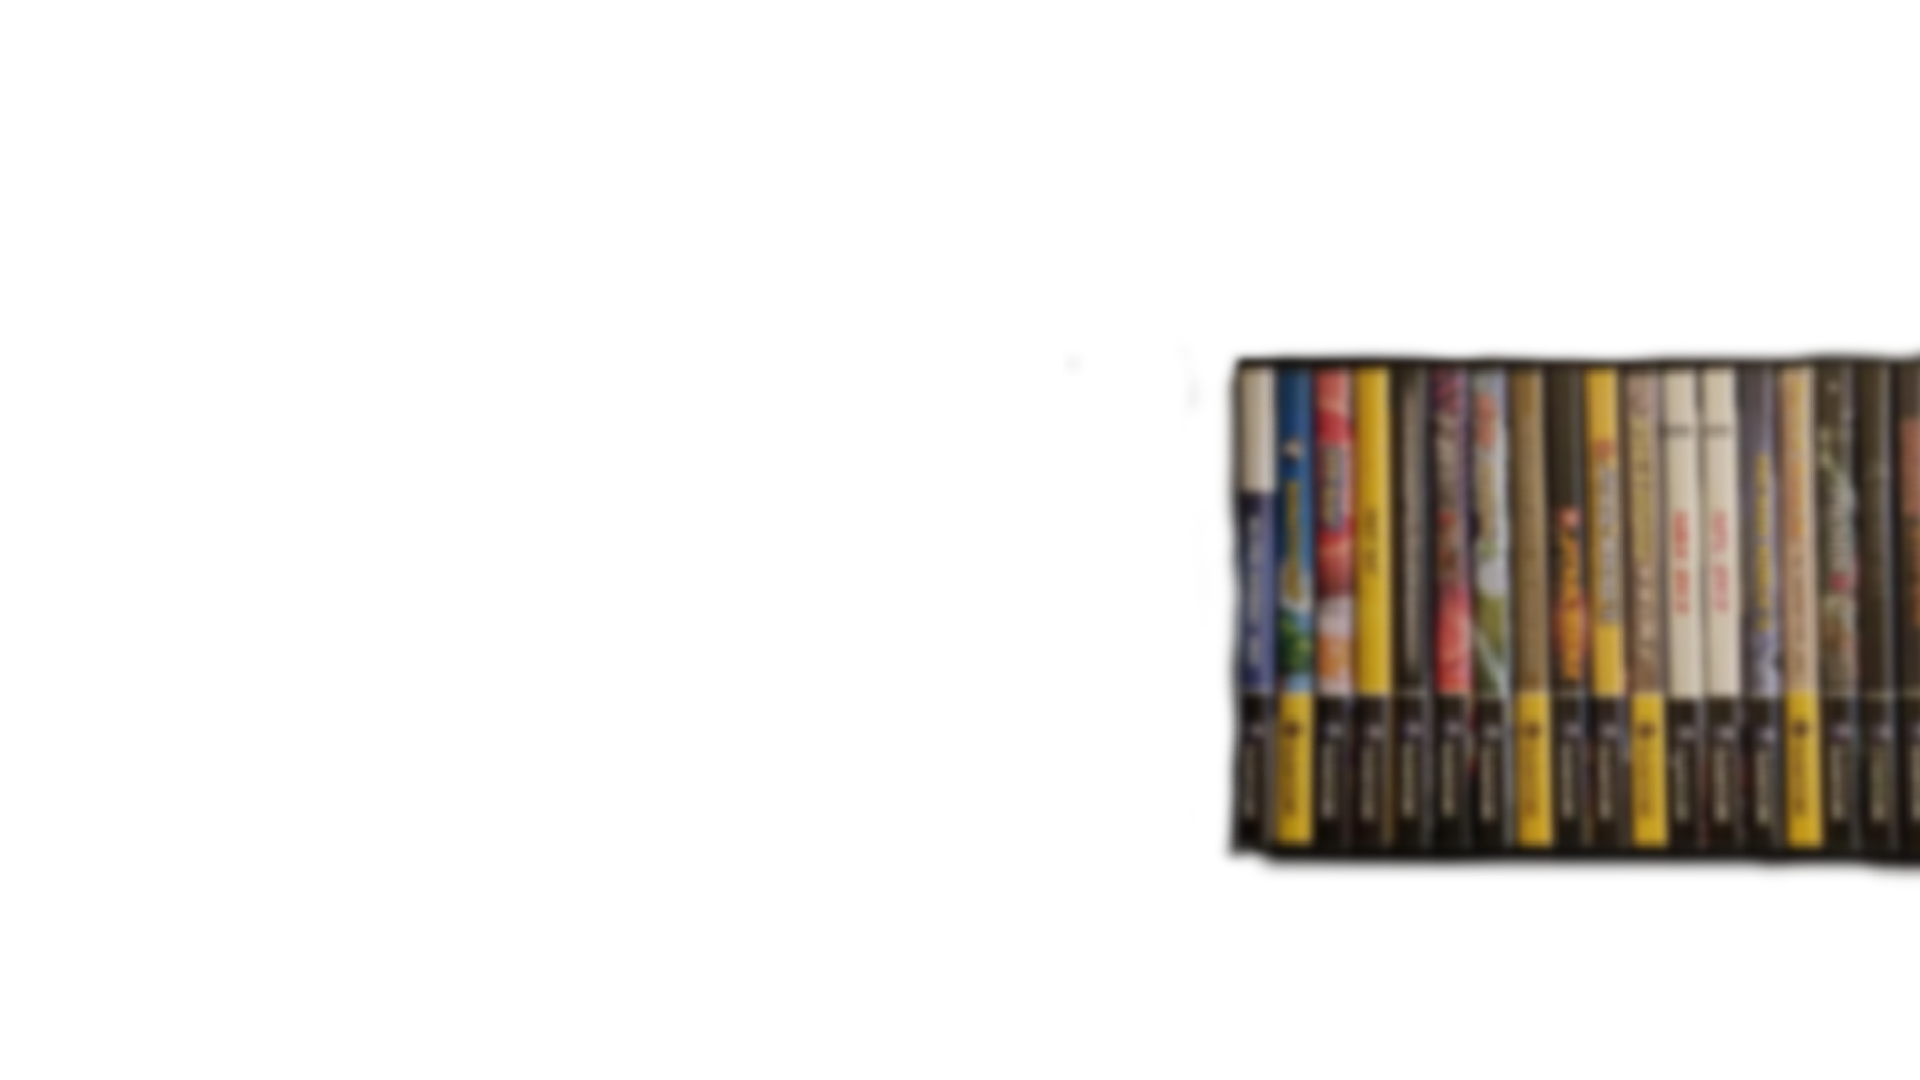
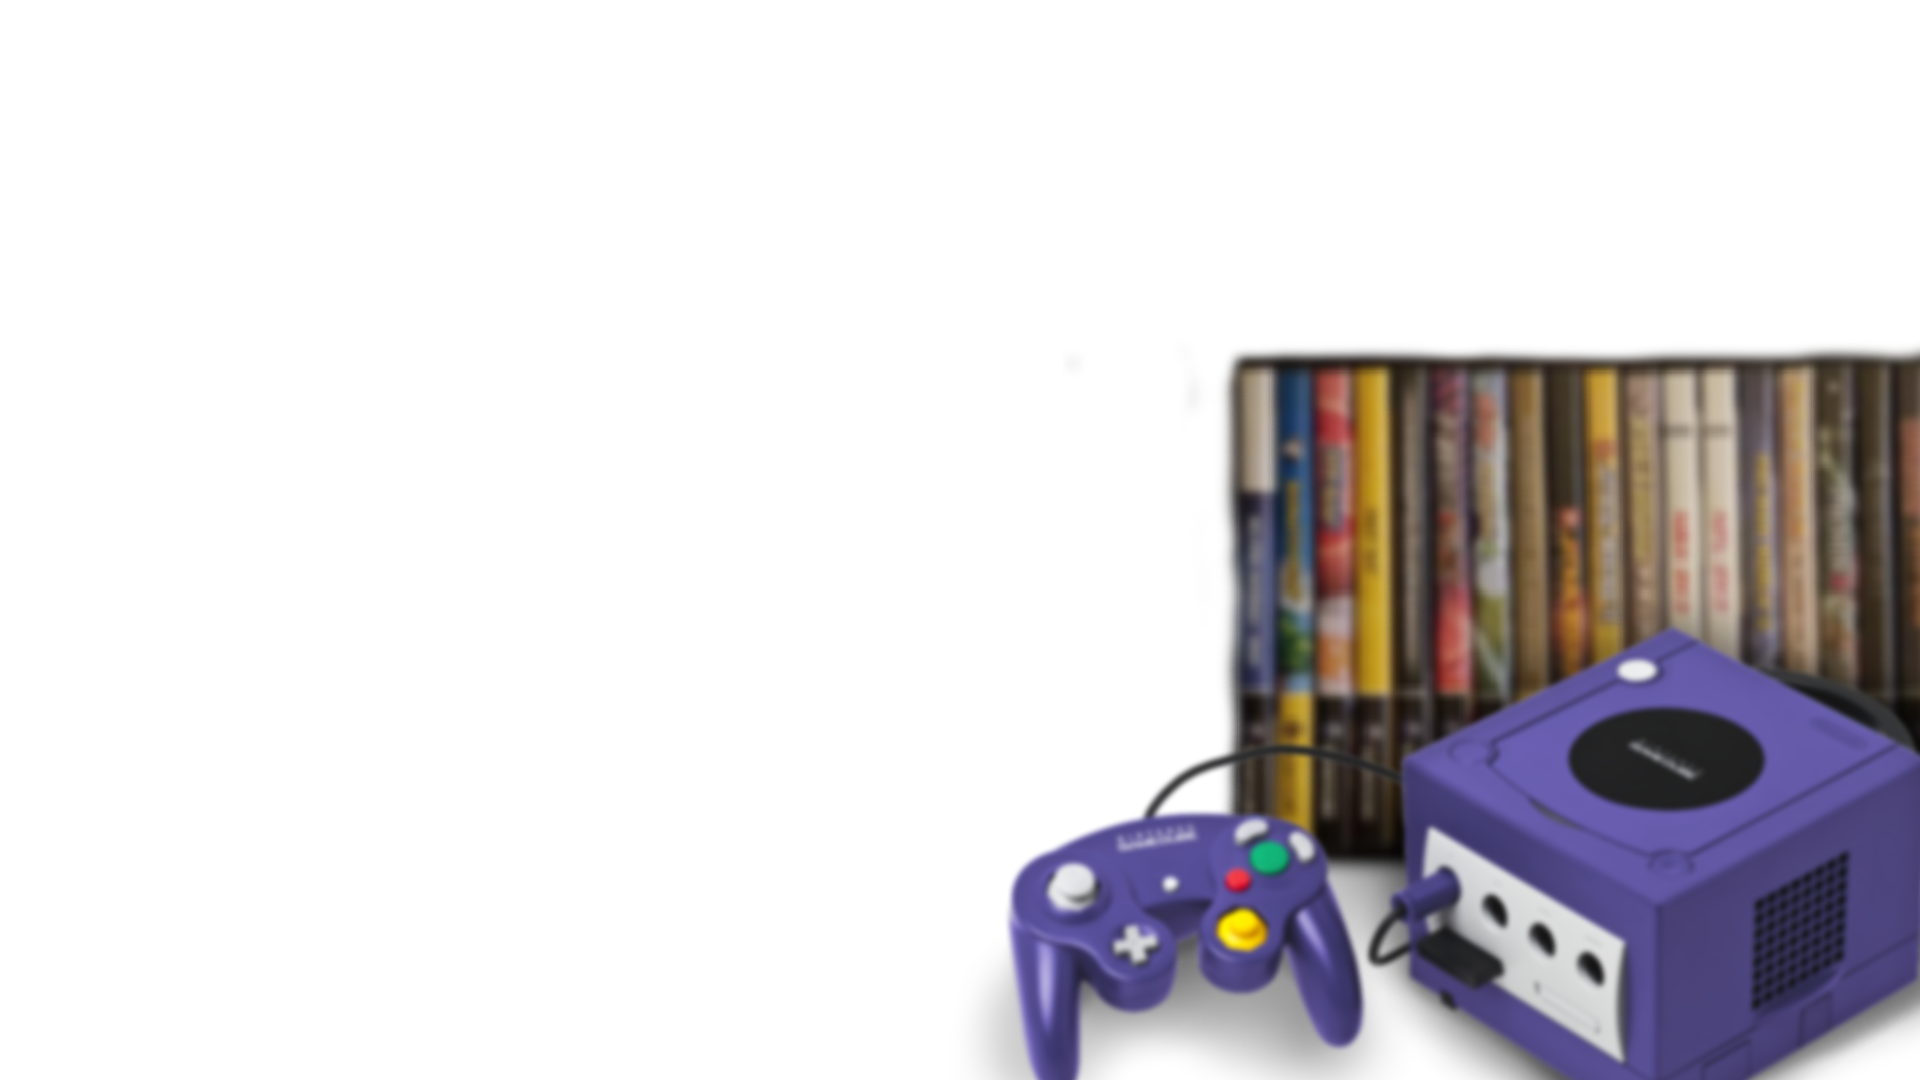
v1.1
- Added consoles to disc systems
- softened console and box blurs
- ps3 overlay
- tidied up some images

Changed region(s): [[0.5, 0.55, 1.0, 1.0], [0.6562, 0.6722, 0.6875, 0.7028]]

diff --git a/Microsoft Xbox.xaml b/Microsoft Xbox.xaml
@@ -14,6 +14,7 @@
              Background="#000">
     <UserControl.Resources>
         <Storyboard x:Key="Load">
+
             <!-- DISC ROTATE -->
             <DoubleAnimation Storyboard.TargetName="DiscImage"
                 Storyboard.TargetProperty="(UIElement.RenderTransform).(TransformGroup.Children)[1].(RotateTransform.Angle)" From="20" To="20"
@@ -25,6 +26,7 @@
                     <CubicEase EasingMode="EaseInOut" />
                 </DoubleAnimation.EasingFunction>
             </DoubleAnimation>
+
             <!-- DISC X-AXIS MOVEMENT -->
             <DoubleAnimationUsingKeyFrames Storyboard.TargetProperty="(UIElement.RenderTransform).(TransformGroup.Children)[2].(TranslateTransform.X)"
                 Storyboard.TargetName="DiscImage">
@@ -39,6 +41,7 @@
                     </EasingDoubleKeyFrame.EasingFunction>
                 </EasingDoubleKeyFrame>
             </DoubleAnimationUsingKeyFrames>
+
 	    <!-- BOX X-AXIS MOVEMENT -->
             <DoubleAnimationUsingKeyFrames Storyboard.TargetProperty="(UIElement.RenderTransform).(TransformGroup.Children)[2].(TranslateTransform.X)"
                 Storyboard.TargetName="BoxImage">
@@ -50,6 +53,21 @@
                 <EasingDoubleKeyFrame KeyTime="0:0:1.6" Value="-250">
                     <EasingDoubleKeyFrame.EasingFunction>
                         <QuadraticEase />
+                    </EasingDoubleKeyFrame.EasingFunction>
+                </EasingDoubleKeyFrame>
+            </DoubleAnimationUsingKeyFrames>
+
+	    <!-- Screenshot appear -->
+            <DoubleAnimationUsingKeyFrames Storyboard.TargetProperty="(UIElement.RenderTransform).(TransformGroup.Children)[2].(TranslateTransform.Y)"
+                Storyboard.TargetName="ScreenshotImage">
+                <EasingDoubleKeyFrame KeyTime="0:0:4.86" Value="0">
+                    <EasingDoubleKeyFrame.EasingFunction>
+                        <ElasticEase />
+                    </EasingDoubleKeyFrame.EasingFunction>
+                </EasingDoubleKeyFrame>
+                <EasingDoubleKeyFrame KeyTime="0:0:5.0" Value="-1000">
+                    <EasingDoubleKeyFrame.EasingFunction>
+                        <ElasticEase />
                     </EasingDoubleKeyFrame.EasingFunction>
                 </EasingDoubleKeyFrame>
             </DoubleAnimationUsingKeyFrames>
@@ -70,9 +88,18 @@
               <ColumnDefinition Width="20*" />
               <ColumnDefinition Width="30*" />
             </Grid.ColumnDefinitions>
-            <!-- Screenshot -->
-            <Image Grid.Row="1" Grid.Column="1" Source="{Binding SelectedGame.BackgroundImagePath}" Stretch="Fill" VerticalAlignment="Center" HorizontalAlignment="Center"
-    RenderOptions.BitmapScalingMode="HighQuality">
+
+	    <!-- Screenshot -->
+            <Image x:Name="ScreenshotImage" Grid.Row="1" Grid.Column="1" Source="{Binding SelectedGame.ScreenshotImagePath}" VerticalAlignment="Center"
+                   HorizontalAlignment="Center" RenderOptions.BitmapScalingMode="HighQuality" RenderTransformOrigin="0.5,0.5">
+              <Image.RenderTransform>
+                <TransformGroup>
+                  <ScaleTransform ScaleX="1" ScaleY="1"/>
+                  <RotateTransform Angle="0" />
+                  <TranslateTransform X="0"/>
+                  <TranslateTransform Y="1000"/>
+                </TransformGroup>
+              </Image.RenderTransform>
               <Image.Effect>
                 <BlurEffect Radius="30" />
               </Image.Effect>
@@ -123,7 +150,7 @@
                     </TransformGroup>
                 </Image.RenderTransform>
               <Image.Effect>
-                <DropShadowEffect Direction="270" ShadowDepth="15" BlurRadius="20" />
+                <DropShadowEffect Direction="-90" ShadowDepth="20" BlurRadius="30" Opacity=".3" />
               </Image.Effect>
             </Image>
 

diff --git a/Sony Playstation 2.xaml b/Sony Playstation 2.xaml
@@ -14,6 +14,7 @@
              Background="#000">
     <UserControl.Resources>
         <Storyboard x:Key="Load">
+
             <!-- DISC ROTATE -->
             <DoubleAnimation Storyboard.TargetName="DiscImage"
                 Storyboard.TargetProperty="(UIElement.RenderTransform).(TransformGroup.Children)[1].(RotateTransform.Angle)" From="20" To="20"
@@ -25,6 +26,7 @@
                     <CubicEase EasingMode="EaseInOut" />
                 </DoubleAnimation.EasingFunction>
             </DoubleAnimation>
+
             <!-- DISC X-AXIS MOVEMENT -->
             <DoubleAnimationUsingKeyFrames Storyboard.TargetProperty="(UIElement.RenderTransform).(TransformGroup.Children)[2].(TranslateTransform.X)"
                 Storyboard.TargetName="DiscImage">
@@ -39,6 +41,7 @@
                     </EasingDoubleKeyFrame.EasingFunction>
                 </EasingDoubleKeyFrame>
             </DoubleAnimationUsingKeyFrames>
+
 	    <!-- BOX X-AXIS MOVEMENT -->
             <DoubleAnimationUsingKeyFrames Storyboard.TargetProperty="(UIElement.RenderTransform).(TransformGroup.Children)[2].(TranslateTransform.X)"
                 Storyboard.TargetName="BoxImage">
@@ -50,6 +53,21 @@
                 <EasingDoubleKeyFrame KeyTime="0:0:1.6" Value="-250">
                     <EasingDoubleKeyFrame.EasingFunction>
                         <QuadraticEase />
+                    </EasingDoubleKeyFrame.EasingFunction>
+                </EasingDoubleKeyFrame>
+            </DoubleAnimationUsingKeyFrames>
+
+	    <!-- Screenshot appear -->
+            <DoubleAnimationUsingKeyFrames Storyboard.TargetProperty="(UIElement.RenderTransform).(TransformGroup.Children)[2].(TranslateTransform.Y)"
+                Storyboard.TargetName="ScreenshotImage">
+                <EasingDoubleKeyFrame KeyTime="0:0:4.86" Value="0">
+                    <EasingDoubleKeyFrame.EasingFunction>
+                        <ElasticEase />
+                    </EasingDoubleKeyFrame.EasingFunction>
+                </EasingDoubleKeyFrame>
+                <EasingDoubleKeyFrame KeyTime="0:0:5.0" Value="-1000">
+                    <EasingDoubleKeyFrame.EasingFunction>
+                        <ElasticEase />
                     </EasingDoubleKeyFrame.EasingFunction>
                 </EasingDoubleKeyFrame>
             </DoubleAnimationUsingKeyFrames>
@@ -70,9 +88,18 @@
               <ColumnDefinition Width="20*" />
               <ColumnDefinition Width="30*" />
             </Grid.ColumnDefinitions>
-            <!-- Screenshot -->
-            <Image Grid.Row="1" Grid.Column="1" Source="{Binding SelectedGame.ScreenshotImagePath}" Stretch="Fill" VerticalAlignment="Center" HorizontalAlignment="Center"
-    RenderOptions.BitmapScalingMode="HighQuality">
+
+	    <!-- Screenshot -->
+            <Image x:Name="ScreenshotImage" Grid.Row="1" Grid.Column="1" Source="{Binding SelectedGame.ScreenshotImagePath}" VerticalAlignment="Center"
+                   HorizontalAlignment="Center" RenderOptions.BitmapScalingMode="HighQuality" RenderTransformOrigin="0.5,0.5">
+              <Image.RenderTransform>
+                <TransformGroup>
+                  <ScaleTransform ScaleX="1" ScaleY="1"/>
+                  <RotateTransform Angle="0" />
+                  <TranslateTransform X="0"/>
+                  <TranslateTransform Y="1000"/>
+                </TransformGroup>
+              </Image.RenderTransform>
               <Image.Effect>
                 <BlurEffect Radius="30" />
               </Image.Effect>
@@ -123,7 +150,7 @@
                     </TransformGroup>
                 </Image.RenderTransform>
               <Image.Effect>
-                <DropShadowEffect Direction="270" ShadowDepth="15" BlurRadius="20" />
+                <DropShadowEffect Direction="-90" ShadowDepth="20" BlurRadius="30" Opacity=".3" />
               </Image.Effect>
             </Image>
 

diff --git a/Sony Playstation 3.xaml b/Sony Playstation 3.xaml
@@ -14,6 +14,7 @@
              Background="#000">
     <UserControl.Resources>
         <Storyboard x:Key="Load">
+
             <!-- DISC ROTATE -->
             <DoubleAnimation Storyboard.TargetName="DiscImage"
                 Storyboard.TargetProperty="(UIElement.RenderTransform).(TransformGroup.Children)[1].(RotateTransform.Angle)" From="20" To="20"
@@ -25,6 +26,7 @@
                     <CubicEase EasingMode="EaseInOut" />
                 </DoubleAnimation.EasingFunction>
             </DoubleAnimation>
+
             <!-- DISC X-AXIS MOVEMENT -->
             <DoubleAnimationUsingKeyFrames Storyboard.TargetProperty="(UIElement.RenderTransform).(TransformGroup.Children)[2].(TranslateTransform.X)"
                 Storyboard.TargetName="DiscImage">
@@ -39,6 +41,7 @@
                     </EasingDoubleKeyFrame.EasingFunction>
                 </EasingDoubleKeyFrame>
             </DoubleAnimationUsingKeyFrames>
+
 	    <!-- BOX X-AXIS MOVEMENT -->
             <DoubleAnimationUsingKeyFrames Storyboard.TargetProperty="(UIElement.RenderTransform).(TransformGroup.Children)[2].(TranslateTransform.X)"
                 Storyboard.TargetName="BoxImage">
@@ -50,6 +53,21 @@
                 <EasingDoubleKeyFrame KeyTime="0:0:1.6" Value="-250">
                     <EasingDoubleKeyFrame.EasingFunction>
                         <QuadraticEase />
+                    </EasingDoubleKeyFrame.EasingFunction>
+                </EasingDoubleKeyFrame>
+            </DoubleAnimationUsingKeyFrames>
+
+	    <!-- Screenshot appear -->
+            <DoubleAnimationUsingKeyFrames Storyboard.TargetProperty="(UIElement.RenderTransform).(TransformGroup.Children)[2].(TranslateTransform.Y)"
+                Storyboard.TargetName="ScreenshotImage">
+                <EasingDoubleKeyFrame KeyTime="0:0:4.86" Value="0">
+                    <EasingDoubleKeyFrame.EasingFunction>
+                        <ElasticEase />
+                    </EasingDoubleKeyFrame.EasingFunction>
+                </EasingDoubleKeyFrame>
+                <EasingDoubleKeyFrame KeyTime="0:0:5.0" Value="-1000">
+                    <EasingDoubleKeyFrame.EasingFunction>
+                        <ElasticEase />
                     </EasingDoubleKeyFrame.EasingFunction>
                 </EasingDoubleKeyFrame>
             </DoubleAnimationUsingKeyFrames>
@@ -70,9 +88,18 @@
               <ColumnDefinition Width="20*" />
               <ColumnDefinition Width="30*" />
             </Grid.ColumnDefinitions>
-            <!-- Screenshot -->
-            <Image Grid.Row="1" Grid.Column="1" Source="{Binding SelectedGame.ScreenshotImagePath}" Stretch="Fill" VerticalAlignment="Center" HorizontalAlignment="Center"
-    RenderOptions.BitmapScalingMode="HighQuality">
+
+	    <!-- Screenshot -->
+            <Image x:Name="ScreenshotImage" Grid.Row="1" Grid.Column="1" Source="{Binding SelectedGame.ScreenshotImagePath}" VerticalAlignment="Center"
+                   HorizontalAlignment="Center" RenderOptions.BitmapScalingMode="HighQuality" RenderTransformOrigin="0.5,0.5">
+              <Image.RenderTransform>
+                <TransformGroup>
+                  <ScaleTransform ScaleX="1" ScaleY="1"/>
+                  <RotateTransform Angle="0" />
+                  <TranslateTransform X="0"/>
+                  <TranslateTransform Y="1000"/>
+                </TransformGroup>
+              </Image.RenderTransform>
               <Image.Effect>
                 <BlurEffect Radius="30" />
               </Image.Effect>
@@ -123,7 +150,7 @@
                     </TransformGroup>
                 </Image.RenderTransform>
               <Image.Effect>
-                <DropShadowEffect Direction="270" ShadowDepth="15" BlurRadius="20" />
+                <DropShadowEffect Direction="-90" ShadowDepth="20" BlurRadius="30" Opacity=".3" />
               </Image.Effect>
             </Image>
 

diff --git a/Nintendo 64.xaml b/Nintendo 64.xaml
@@ -172,7 +172,7 @@
                     </TransformGroup>
                 </Image.RenderTransform>
               <Image.Effect>
-                <DropShadowEffect Direction="270" ShadowDepth="15" BlurRadius="20" />
+                <DropShadowEffect Direction="270" ShadowDepth="5" BlurRadius="30" />
               </Image.Effect>
             </Image>
 
@@ -200,7 +200,7 @@
                     </TransformGroup>
                 </Image.RenderTransform>
               <Image.Effect>
-                <DropShadowEffect Direction="270" ShadowDepth="15" BlurRadius="20" />
+                <DropShadowEffect Direction="-90" ShadowDepth="20" BlurRadius="30" Opacity=".3" />
               </Image.Effect>
             </Image>
 

diff --git a/Nintendo DS.xaml b/Nintendo DS.xaml
@@ -110,7 +110,7 @@
                     </TransformGroup>
                 </Image.RenderTransform>
               <Image.Effect>
-                <DropShadowEffect Direction="270" ShadowDepth="10" BlurRadius="30" />
+                <DropShadowEffect Direction="270" ShadowDepth="5" BlurRadius="30" />
               </Image.Effect>
             </Image>
 
@@ -149,7 +149,7 @@
                     </TransformGroup>
                 </Image.RenderTransform>
               <Image.Effect>
-                <DropShadowEffect Direction="270" ShadowDepth="15" BlurRadius="20" />
+                <DropShadowEffect Direction="-90" ShadowDepth="20" BlurRadius="30" Opacity=".3" />
               </Image.Effect>
             </Image>
 

diff --git a/Nintendo Entertainment System.xaml b/Nintendo Entertainment System.xaml
@@ -172,7 +172,7 @@
                     </TransformGroup>
                 </Image.RenderTransform>
               <Image.Effect>
-                <DropShadowEffect Direction="270" ShadowDepth="15" BlurRadius="20" />
+                <DropShadowEffect Direction="270" ShadowDepth="5" BlurRadius="30" />
               </Image.Effect>
             </Image>
 
@@ -188,7 +188,7 @@
                     </TransformGroup>
                 </Image.RenderTransform>
               <Image.Effect>
-                <DropShadowEffect Direction="270" ShadowDepth="15" BlurRadius="20" />
+                <DropShadowEffect Direction="-90" ShadowDepth="20" BlurRadius="30" Opacity=".3" />
               </Image.Effect>
             </Image>
 

diff --git a/Nintendo Game Boy Advance.xaml b/Nintendo Game Boy Advance.xaml
@@ -110,7 +110,7 @@
                     </TransformGroup>
                 </Image.RenderTransform>
               <Image.Effect>
-                <DropShadowEffect Direction="270" ShadowDepth="10" BlurRadius="30" />
+                <DropShadowEffect Direction="270" ShadowDepth="5" BlurRadius="30" />
               </Image.Effect>
             </Image>
 
@@ -149,7 +149,7 @@
                     </TransformGroup>
                 </Image.RenderTransform>
               <Image.Effect>
-                <DropShadowEffect Direction="270" ShadowDepth="15" BlurRadius="20" />
+                <DropShadowEffect Direction="-90" ShadowDepth="20" BlurRadius="30" Opacity=".3" />
               </Image.Effect>
             </Image>
 

diff --git a/Nintendo Game Boy Color.xaml b/Nintendo Game Boy Color.xaml
@@ -109,7 +109,7 @@
                     </TransformGroup>
                 </Image.RenderTransform>
               <Image.Effect>
-                <DropShadowEffect Direction="270" ShadowDepth="15" BlurRadius="20" />
+                <DropShadowEffect Direction="270" ShadowDepth="5" BlurRadius="30" />
               </Image.Effect>
             </Image>
 
@@ -147,7 +147,7 @@
                     </TransformGroup>
                 </Image.RenderTransform>
               <Image.Effect>
-                <DropShadowEffect Direction="270" ShadowDepth="15" BlurRadius="20" />
+                <DropShadowEffect Direction="-90" ShadowDepth="20" BlurRadius="30" Opacity=".3" />
               </Image.Effect>
             </Image>
 

diff --git a/Nintendo Game Boy.xaml b/Nintendo Game Boy.xaml
@@ -109,7 +109,7 @@
                     </TransformGroup>
                 </Image.RenderTransform>
               <Image.Effect>
-                <DropShadowEffect Direction="270" ShadowDepth="15" BlurRadius="20" />
+                <DropShadowEffect Direction="270" ShadowDepth="5" BlurRadius="30" />
               </Image.Effect>
             </Image>
 
@@ -147,7 +147,7 @@
                     </TransformGroup>
                 </Image.RenderTransform>
               <Image.Effect>
-                <DropShadowEffect Direction="270" ShadowDepth="15" BlurRadius="20" />
+                <DropShadowEffect Direction="-90" ShadowDepth="20" BlurRadius="30" Opacity=".3" />
               </Image.Effect>
             </Image>
 

diff --git a/SNK Neo Geo AES.xaml b/SNK Neo Geo AES.xaml
@@ -162,7 +162,7 @@
                     </TransformGroup>
                 </Image.RenderTransform>
               <Image.Effect>
-                <DropShadowEffect Direction="270" ShadowDepth="15" BlurRadius="20" />
+                <DropShadowEffect Direction="270" ShadowDepth="5" BlurRadius="30" />
               </Image.Effect>
             </Image>
 
@@ -178,7 +178,7 @@
                     </TransformGroup>
                 </Image.RenderTransform>
               <Image.Effect>
-                <DropShadowEffect Direction="270" ShadowDepth="15" BlurRadius="20" />
+                <DropShadowEffect Direction="-90" ShadowDepth="20" BlurRadius="30" Opacity=".3" />
               </Image.Effect>
             </Image>
 

diff --git a/Sega Game Gear.xaml b/Sega Game Gear.xaml
@@ -109,7 +109,7 @@
                     </TransformGroup>
                 </Image.RenderTransform>
               <Image.Effect>
-                <DropShadowEffect Direction="270" ShadowDepth="15" BlurRadius="20" />
+                <DropShadowEffect Direction="270" ShadowDepth="5" BlurRadius="30" />
               </Image.Effect>
             </Image>
 
@@ -147,7 +147,7 @@
                     </TransformGroup>
                 </Image.RenderTransform>
               <Image.Effect>
-                <DropShadowEffect Direction="270" ShadowDepth="15" BlurRadius="20" />
+                <DropShadowEffect Direction="-90" ShadowDepth="20" BlurRadius="30" Opacity=".3" />
               </Image.Effect>
             </Image>
 

diff --git a/Sega Genesis.xaml b/Sega Genesis.xaml
@@ -156,7 +156,7 @@
                     </TransformGroup>
                 </Image.RenderTransform>
               <Image.Effect>
-                <DropShadowEffect Direction="270" ShadowDepth="15" BlurRadius="20" />
+                <DropShadowEffect Direction="270" ShadowDepth="5" BlurRadius="30" />
               </Image.Effect>
             </Image>
 
@@ -213,7 +213,7 @@
                     </TransformGroup>
                 </Image.RenderTransform>
               <Image.Effect>
-                <DropShadowEffect Direction="270" ShadowDepth="15" BlurRadius="20" />
+                <DropShadowEffect Direction="-90" ShadowDepth="20" BlurRadius="30" Opacity=".3" />
               </Image.Effect>
             </Image>
 
